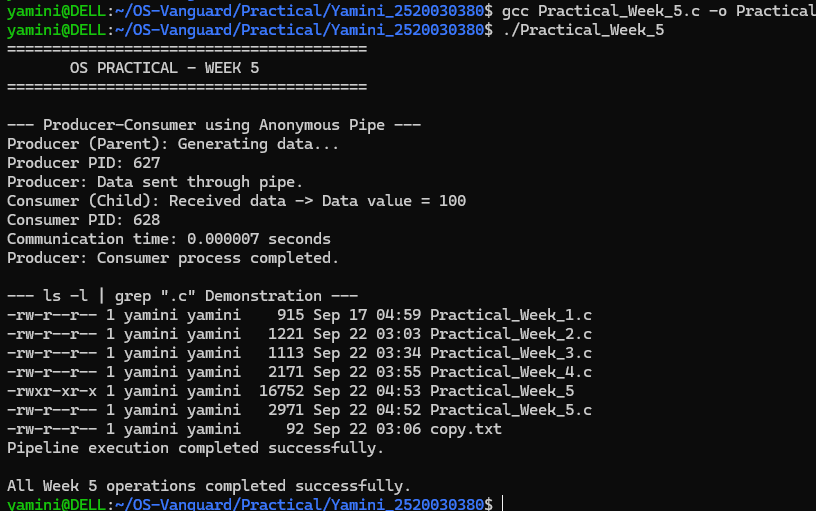
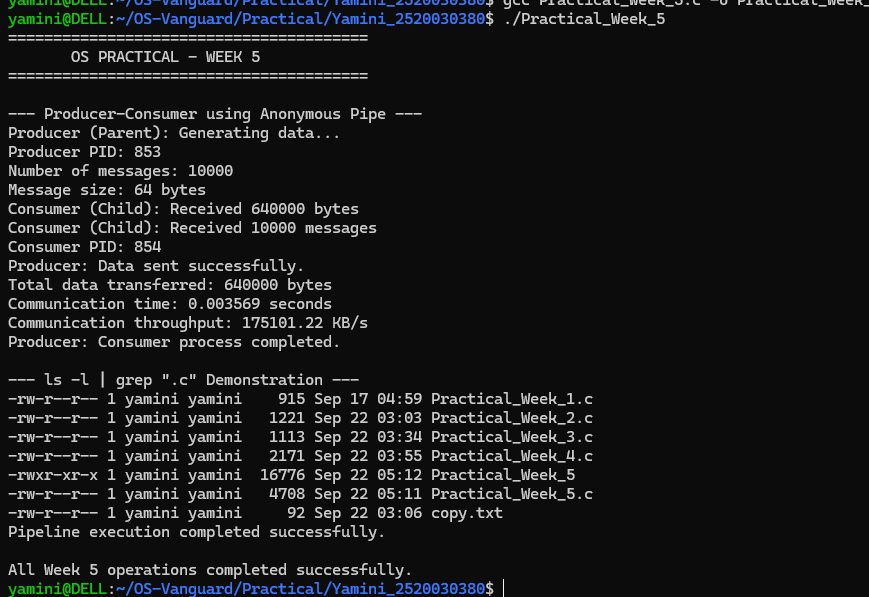
Fix Practical Week 5

Changed region(s): [[0.0, 0.0, 1.0, 0.91], [0.0, 0.9393, 0.6127, 1.0]]

diff --git a/Practical/Yamini_2520030380/Practical_Week_5.c b/Practical/Yamini_2520030380/Practical_Week_5.c
@@ -1,17 +1,29 @@
 #include <stdio.h>
+#include <stdlib.h>
 #include <unistd.h>
 #include <sys/types.h>
 #include <sys/wait.h>
-#include <stdlib.h>
 #include <string.h>
 #include <time.h>
 
+#define NUM_MESSAGES 10000
+#define MESSAGE_SIZE 64
+
+double get_elapsed_time(struct timespec start, struct timespec end)
+{
+    return (end.tv_sec - start.tv_sec) +
+           (end.tv_nsec - start.tv_nsec) / 1000000000.0;
+}
+
+/* Producer-Consumer using Anonymous Pipe */
 void producer_consumer()
 {
     int pipefd[2];
     pid_t pid;
-    char buffer[100];
-    int data = 100;
+    char message[MESSAGE_SIZE];
+    char buffer[256];
+
+    long total_bytes = 0;
 
     if (pipe(pipefd) == -1)
     {
@@ -32,12 +44,24 @@ void producer_consumer()
         /* Child - Consumer */
         close(pipefd[1]);
 
-        read(pipefd[0], buffer, sizeof(buffer));
+        ssize_t bytes_read;
 
-        printf("Consumer (Child): Received data -> %s\n", buffer);
-        printf("Consumer PID: %d\n", getpid());
+        while ((bytes_read = read(pipefd[0], buffer,
+                                  sizeof(buffer))) > 0)
+        {
+            total_bytes += bytes_read;
+        }
 
         close(pipefd[0]);
+
+        printf("Consumer (Child): Received %ld bytes\n",
+               total_bytes);
+
+        printf("Consumer (Child): Received %ld messages\n",
+               total_bytes / MESSAGE_SIZE);
+
+        printf("Consumer PID: %d\n", getpid());
+
         exit(0);
     }
     else
@@ -45,37 +69,76 @@ void producer_consumer()
         /* Parent - Producer */
         close(pipefd[0]);
 
+        memset(message, 'A', MESSAGE_SIZE);
+        message[MESSAGE_SIZE - 1] = '\n';
+
+        struct timespec start, end;
+
         printf("Producer (Parent): Generating data...\n");
-
-        snprintf(buffer, sizeof(buffer),
-                 "Data value = %d", data);
-
-        clock_t start = clock();
-
-        write(pipefd[1], buffer, strlen(buffer) + 1);
-
-        clock_t end = clock();
-
-        double time_taken =
-            (double)(end - start) / CLOCKS_PER_SEC;
-
         printf("Producer PID: %d\n", getpid());
-        printf("Producer: Data sent through pipe.\n");
-        printf("Communication time: %.6f seconds\n",
-               time_taken);
+        printf("Number of messages: %d\n", NUM_MESSAGES);
+        printf("Message size: %d bytes\n", MESSAGE_SIZE);
+
+        clock_gettime(CLOCK_MONOTONIC, &start);
+
+        for (int i = 0; i < NUM_MESSAGES; i++)
+        {
+            ssize_t total_written = 0;
+
+            while (total_written < MESSAGE_SIZE)
+            {
+                ssize_t bytes_written =
+                    write(pipefd[1],
+                          message + total_written,
+                          MESSAGE_SIZE - total_written);
+
+                if (bytes_written <= 0)
+                {
+                    perror("write failed");
+                    close(pipefd[1]);
+                    wait(NULL);
+                    exit(1);
+                }
+
+                total_written += bytes_written;
+            }
+        }
 
         close(pipefd[1]);
 
         wait(NULL);
 
+        clock_gettime(CLOCK_MONOTONIC, &end);
+
+        double elapsed =
+            get_elapsed_time(start, end);
+
+        long total_data =
+            (long)NUM_MESSAGES * MESSAGE_SIZE;
+
+        double throughput =
+            (total_data / 1024.0) / elapsed;
+
+        printf("Producer: Data sent successfully.\n");
+        printf("Total data transferred: %ld bytes\n",
+               total_data);
+
+        printf("Communication time: %.6f seconds\n",
+               elapsed);
+
+        printf("Communication throughput: %.2f KB/s\n",
+               throughput);
+
         printf("Producer: Consumer process completed.\n");
     }
 }
 
+/* Equivalent of: ls -l | grep ".c" */
 void pipeline_demo()
 {
     int pipefd[2];
-    pid_t ls_pid, grep_pid;
+    pid_t ls_pid;
+    pid_t grep_pid;
 
     printf("\n--- ls -l | grep \".c\" Demonstration ---\n");
 
@@ -85,7 +148,7 @@ void pipeline_demo()
         exit(1);
     }
 
-    /* First child: ls -l */
+    /* First child executes ls -l */
     ls_pid = fork();
 
     if (ls_pid < 0)
@@ -107,7 +170,7 @@ void pipeline_demo()
         exit(1);
     }
 
-    /* Second child: grep ".c" */
+    /* Second child executes grep ".c" */
     grep_pid = fork();
 
     if (grep_pid < 0)
@@ -129,7 +192,7 @@ void pipeline_demo()
         exit(1);
     }
 
-    /* Parent */
+    /* Parent closes pipe and waits */
     close(pipefd[0]);
     close(pipefd[1]);
 
